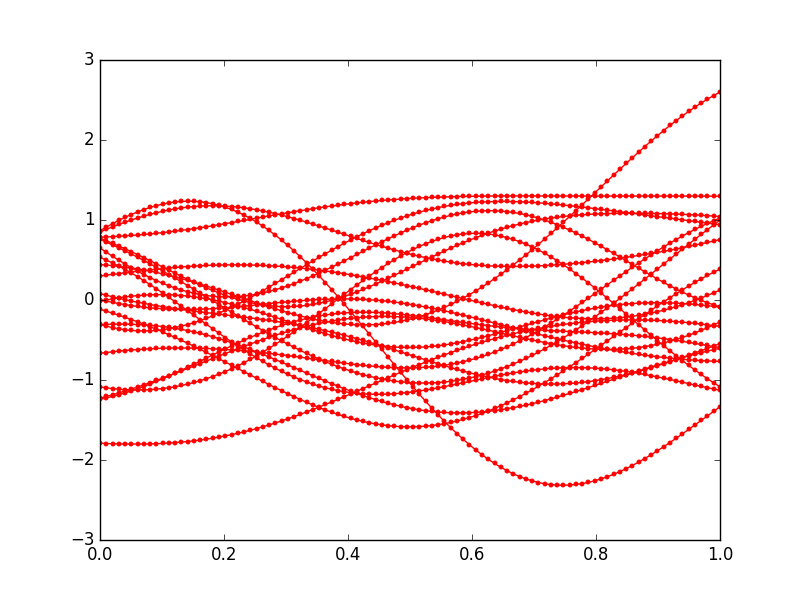
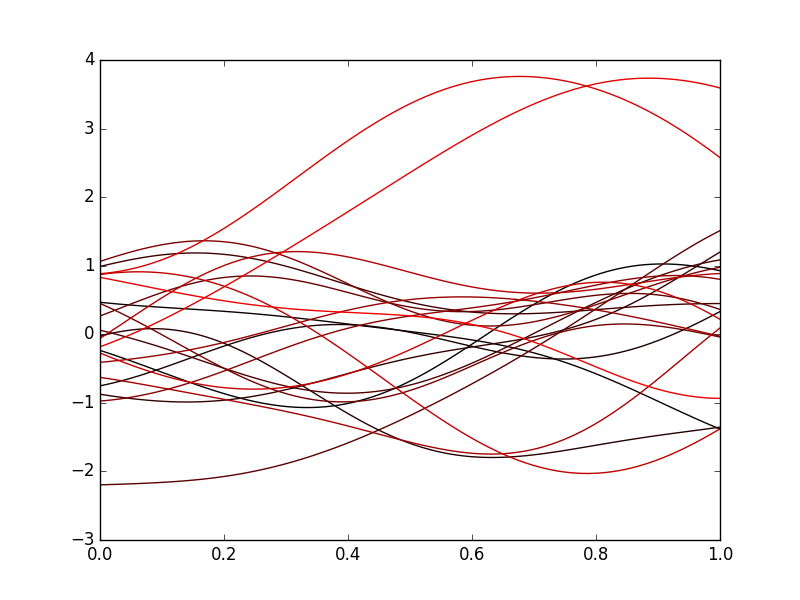
essentially finished gaussian process, p_c finished

diff --git a/machine_learning_cs354/perceptron/gauss_process.py b/machine_learning_cs354/perceptron/gauss_process.py
@@ -13,7 +13,12 @@ from utils import *
 from random import random
 from scipy.spatial import distance
 import matplotlib.pyplot as plt
+import colorsys
 
+def color_gradient(n = 20):
+    hsv_tuples = [(0, 1, x*1.0/n) for x in range(n)]
+    rgb_tuples = map(lambda x: colorsys.hsv_to_rgb(*x), hsv_tuples)
+    return rgb_tuples
 
 def kernal(x, x_p, t_sq):
     ''' x_p = x'
@@ -45,16 +50,14 @@ def p_a():
     cov         = covar(x, t_sq)
     means       = np.zeros(N)
     outfile     = "output/pa.png"  
+    colors      = color_gradient(20)
     # np.random.seed(29)
 
-    # credit to 
-    # http://stackoverflow.com/questions/4873665/joining-two-2d-numpy-arrays-into-a-single-2d-array-of-2-tuples
-    # best = np.vstack(([x.T], [y.T])).T
     plt.figure()
 
     for i in range(num_samples):
         y = np.random.multivariate_normal(means,cov)
-        plt.plot(x, y, '.r-')
+        plt.plot(x, y, c =  colors[i])
     plt.savefig(outfile)
 
 def k_matrix(xtrain, t_sq):
@@ -66,7 +69,7 @@ def k_matrix(xtrain, t_sq):
     return matrix
 
 def p_b():
-
+    print "Starting p_b ..."
     outfile  = "output/pb.png"
     data     = read('data/gp.dat')
     N        = 100 # num points within a line 
@@ -75,12 +78,10 @@ def p_b():
 
     xtrain   = (data[:,0]).reshape((data.shape[0],1))
     ytrain   = (data[:,1]).reshape((data.shape[0],1))
-    sigma_sq = 1;
+    sigma_sq = 1;   
 
-    
-
-    means = np.zeros(N) 
-    var   = np.zeros(N)
+    means = np.zeros((N,1)) 
+    var   = np.zeros((N,1))
     ci    = np.zeros((N,2))
     for i in range(N):
 
@@ -106,7 +107,33 @@ def p_b():
     plt.plot(x, ci[:,1],'g')
 
     plt.savefig(outfile)
+    return means, var, ci, xtrain, ytrain
+
+def p_c(means,var,ci, xtrain, ytrain):
+    print "Starting p_c ..."
+    num_samples = 20
+    N           = 100
+    x           = np.linspace(0 ,1 , N)
+    colors      = color_gradient(20)
+    outfile     = "output/pc.png"
+    # 200 x 20 sized randomized matrix
+    rand_norm   = np.random.randn(N,num_samples) 
+    # xsim        = np.zeros(num_samples)
+    xsim        = []
+    plt.figure()
+    for i in range(num_samples):
+        xsim.append((np.diag( np.sqrt(var))).dot(rand_norm[:,i].reshape(1,100)).reshape(100,1) + means)
+        plt.plot( x, xsim[i], c = colors[i], alpha = 0.5)
+
+    plt.scatter(xtrain,ytrain, marker = "x")
+    plt.plot(x, means, 'b')
+    plt.plot(x, ci[:,0],'g')
+    plt.plot(x, ci[:,1],'g')
+
+    plt.savefig(outfile)
+
 if __name__ == "__main__":
-    p_a()
-    p_b()
+    # p_a()
+    means, var, ci, xtrain, ytrain = p_b()
+    p_c(means,var, ci, xtrain, ytrain)
 
